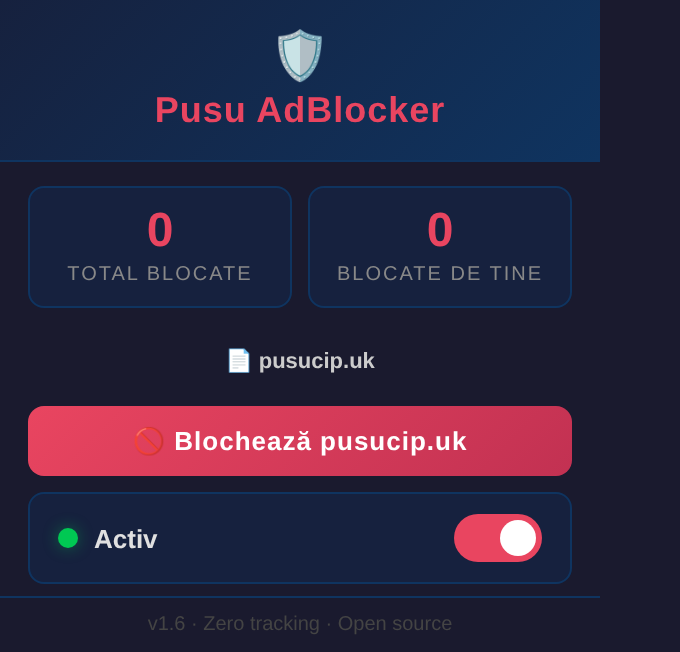
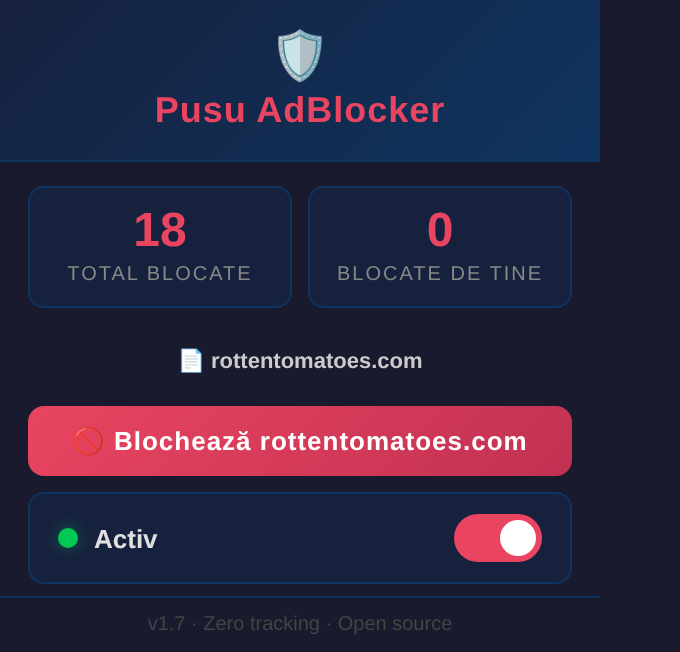
fix: live block counter actually counts (v1.7.0)
totalBlocked was only ever initialised to 0 and reset to 0 — nothing ever
incremented it, so the popup's 'TOTAL BLOCATE' stat could never leave zero
despite the README advertising live stats.

- add declarativeNetRequestFeedback and wire onRuleMatchedDebug into a
  batched, persisted counter
- stop resetting the stats on every extension update (only on fresh install)
- refresh the open popup when the count changes
- bump to 1.7.0 and refresh the README screenshot

Verified by loading the unpacked extension in Chromium, driving it over CDP,
and reading chrome.storage.local from the service worker: 8 blocks on a
controlled ad page, 4 on speedtest.net, 11 on rottentomatoes.com.

Changed region(s): [[0.1235, 0.6442, 0.7721, 0.7055], [0.2471, 0.5215, 0.6176, 0.5828], [0.1853, 0.3067, 0.2779, 0.3988]]

diff --git a/background.js b/background.js
@@ -1,7 +1,42 @@
-// Pusu AdBlocker — Background Service Worker v1.5
+// Pusu AdBlocker — Background Service Worker v1.7
 // Popup-ul poate adăuga domenii la blocklist dinamic
 
 const RULESET_IDS = ['rules_ads', 'rules_trackers', 'rules_annoyances', 'rules_custom'];
+
+// --- Live block counter ---
+// totalBlocked was only ever initialised to 0 and reset to 0, so the popup's
+// "TOTAL BLOCATE" stat could never leave zero. onRuleMatchedDebug fires once
+// per blocked request; it needs the declarativeNetRequestFeedback permission
+// and only fires for unpacked extensions, which is exactly how the README
+// tells people to install this. Increments are batched and flushed to storage
+// so a busy page does not cause one storage write per blocked request.
+let pendingBlocked = 0;
+let flushTimer = null;
+
+function flushBlockedCount() {
+    if (flushTimer) return;
+    flushTimer = setTimeout(async () => {
+        flushTimer = null;
+        const increment = pendingBlocked;
+        pendingBlocked = 0;
+        if (!increment) return;
+        const stored = await chrome.storage.local.get('totalBlocked');
+        await chrome.storage.local.set({
+            totalBlocked: (stored.totalBlocked || 0) + increment
+        });
+        // nudge an open popup to refresh
+        chrome.runtime.sendMessage({ type: 'statsUpdated' }).catch(() => {});
+    }, 400);
+}
+
+if (chrome.declarativeNetRequest.onRuleMatchedDebug) {
+    chrome.declarativeNetRequest.onRuleMatchedDebug.addListener(() => {
+        pendingBlocked++;
+        flushBlockedCount();
+    });
+} else {
+    console.warn('🛡 Counter indisponibil: extensia trebuie încărcată unpacked.');
+}
 
 // --- Dynamic rule management ---
 async function blockDomain(domain) {
@@ -94,7 +129,7 @@ async function init() {
         await chrome.declarativeNetRequest.updateDynamicRules({ addRules: rules }).catch(() => {});
     }
     
-    console.log(`🛡 Pusu AdBlocker v1.5 — ${dynamicBlocked.length} domenii blocate dinamic`);
+    console.log(`🛡 Pusu AdBlocker v1.7 — ${dynamicBlocked.length} domenii blocate dinamic`);
 }
 
 // --- Message handler ---
@@ -137,9 +172,12 @@ chrome.runtime.onMessage.addListener((msg, sender, sendResponse) => {
 
 // --- La install ---
 chrome.runtime.onInstalled.addListener(async (details) => {
-    if (details.reason === 'install' || details.reason === 'update') {
+    if (details.reason === 'install') {
         await chrome.storage.local.set({ totalBlocked: 0, enabled: true });
-        console.log('🛡 Pusu AdBlocker instalat/actualizat.');
+        console.log('🛡 Pusu AdBlocker instalat.');
+    } else if (details.reason === 'update') {
+        // statisticile acumulate nu se mai resetează la fiecare actualizare
+        console.log('🛡 Pusu AdBlocker actualizat — statisticile păstrate.');
     }
 });
 

diff --git a/popup/popup.html b/popup/popup.html
@@ -198,7 +198,7 @@
     </label>
   </div>
 
-  <div class="footer">v1.6 · Zero tracking · Open source</div>
+  <div class="footer">v1.7 · Zero tracking · Open source</div>
 
   <script src="popup.js"></script>
 </body>

diff --git a/popup/popup.js b/popup/popup.js
@@ -1,4 +1,4 @@
-// Pusu AdBlocker — Popup Script v1.5
+// Pusu AdBlocker — Popup Script v1.7
 // Cu buton "Blochează site-ul asta"
 
 let currentDomain = '';

diff --git a/README.md b/README.md
@@ -1,6 +1,6 @@
 # 🛡 Pusu AdBlocker
 
-[![Version](https://img.shields.io/badge/version-1.6.0-red)](https://github.com/pusucip25/pusu-adblocker)
+[![Version](https://img.shields.io/badge/version-1.7.0-red)](https://github.com/pusucip25/pusu-adblocker)
 [![Manifest](https://img.shields.io/badge/manifest-v3-blue)](https://developer.chrome.com/docs/extensions/mv3/)
 [![Rules](https://img.shields.io/badge/rules-35,000%2B-brightgreen)](#-features)
 [![License](https://img.shields.io/badge/license-MIT-green)](LICENSE)
@@ -55,6 +55,8 @@ După ore de debugging:
 - ✅ ...și multe iterații mai târziu
 
 **v1.6** — 35,000+ reguli, StevenBlack hosts integrat, anti-popup 5-straturi.
+
+**v1.7** — contorul de blocări chiar numără: `onRuleMatchedDebug` incrementează `totalBlocked`, iar statisticile nu se mai resetează la fiecare actualizare.
 
 ---
 
